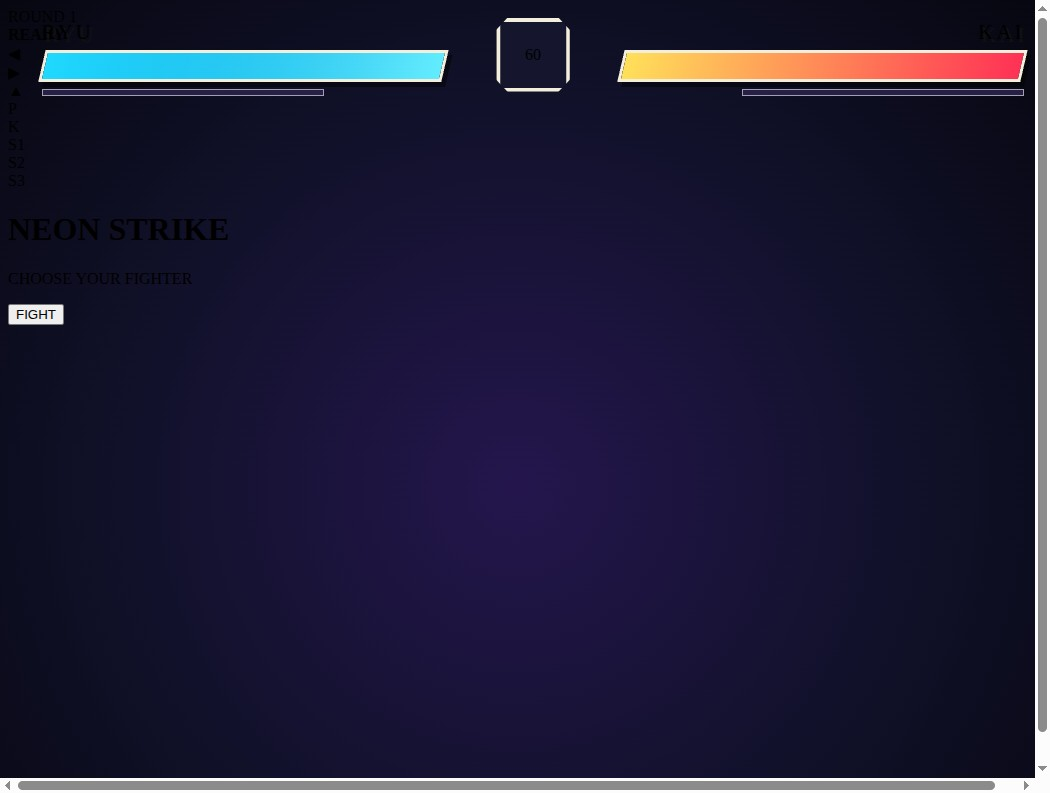
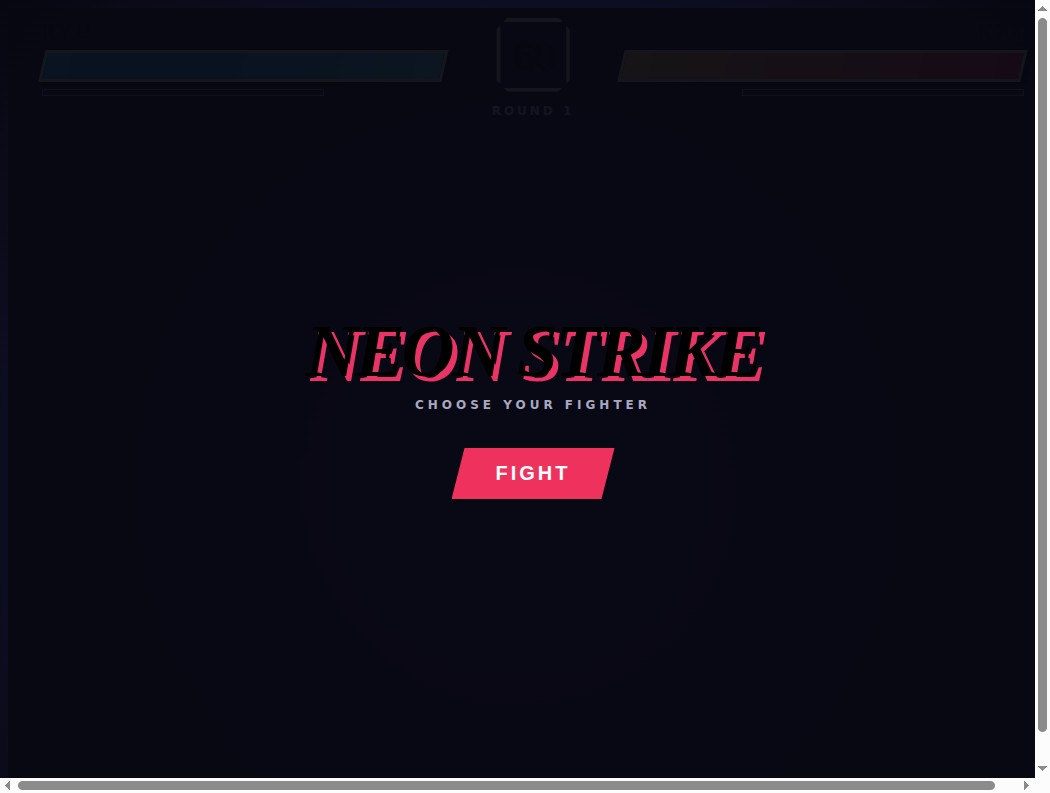
Publish static build for issue #1
Run: 45463022119
Attempt: 1
Generation: 3
Source: a9905210f63381c647c8e18ef487ce44729b8af1

diff --git a/index.html b/index.html
@@ -46,7 +46,7 @@ const chars=[
  {name:'KAI',style:'SPEED',speed:4.1,power:.86,body:'#a96f58',hair:'#ec3f78',gi:'#222943',accent:'#44ccff',moves:['VOLT DASH','AERIAL CUT','NEON BURST']},
  {name:'VOLT',style:'POWER',speed:2.7,power:1.18,body:'#d1a188',hair:'#e7dfcf',gi:'#4d3972',accent:'#ffc942',moves:['IRON BREAK','EARTH SHOCK','SOLAR RUSH']}
 ];let chosen=0,started=false,mode='select';
-const keys={};addEventListener('keydown',e=>{keys[e.key.toLower]=true;if(e.key.toLowerCase()==='r'&&mode==='over')reset()});addEventListener('keyup',e=>keys[e.key.toLower]=false);
+const keys={};addEventListener('keydown',e=>{keys[e.key.toLowerCase()]=true;if(e.key.toLowerCase()==='r'&&mode==='over')reset()});addEventListener('keyup',e=>keys[e.key.toLowerCase()]=false);
 function touchBind(){document.querySelectorAll('[data-key]').forEach(b=>{let k=b.dataset.key;b.addEventListener('pointerdown',e=>{e.prevent();keys[k]=true});b.addEventListener('pointerup',()=>keys[k]=false);b.addEventListener('pointercancel',()=>keys[k]=false);b.addEventListener('pointerleave',()=>keys[k]=false)})}touchBind();
 function portrait(c,preview){return function(){}}
 const cards=document.getElementById('cards');chars.forEach((c,i)=>{const d=document.createElement('div');d.className='card'+(i===0?' selected':'');d.innerHTML=`<canvas></canvas><em>${c.style}</em><h2>${c.name}</h2><small>${c.moves.join(' · ')}</small><div class="stats">SPD ${Math.round(c.speed*20)} &nbsp; POW ${Math.round(c.power*100)}</div>`;d.onclick=()=>{chosen=i;document.querySelectorAll('.card').forEach((x,j)=>x.classList.toggle('selected',j===i));drawPreviews()};cards.appendChild(d)});
@@ -54,13 +54,13 @@ function drawPreview(canvas,c){let w=canvas.width=300,h=canvas.height=300,pc=can
 function drawPreviews(){document.querySelectorAll('.card').forEach((d,i)=>drawPreview(d.querySelector('canvas'),chars[i]))}setTimeout(drawPreviews,20);
 function ground(){return H*.76}
 class Fighter{constructor(x,c,p){this.x=x;this.y=ground();this.vx=0;this.vy=0;this.c=c;this.p=p;this.hp=100;this.power=25;this.dir=p===1?1:-1;this.face=this.dir;this.state='idle';this.anim=0;this.cool=0;this.attack=null;this.inv=0;this.jump=false}update(enemy,t){this.anim+=.06;this.cool=Math.max(0,this.cool-1);this.inv=Math.max(0,this.inv-1);if(this.state==='hurt'&&this.anim>12)this.state='idle';if(this.state==='attack'&&this.attack){let a=this.attack;if(this.anim>a.time){this.state='idle';this.attack=null}}const left=this.p===1?(keys.a||keys.ArrowLeft):(keys.ArrowLeft);const right=this.p===1?(keys.d||keys.ArrowRight):(keys.ArrowRight);const jump=this.p===1?(keys.w||keys.ArrowUp):(keys.ArrowUp);const punch=this.p===1?keys.j:false;const kick=this.p===1?keys.k:false;const s1=this.p===1?keys.l:false,s2=this.p===1?keys.u:false,s3=this.p===1?keys.i:false;
-if(this.state!=='attack'&&this.state!=='hurt'){if(left){this.vx=-this.c.speed;this.face=-1;if(this.state==='idle')this.state='walk'}else if(right){this.vx=this.c.speed;this.face=1;if(this.state==='idle')this.state='walk'}else{this.vx*=.72;if(this.state==='walk')this.state='idle'}if(jump&&this.y>=ground()-1&&!this.jump){this.vy=-11.5;this.jump=true}if(punch&&this.cool===0)this.attackMove('punch',11,0,9);else if(kick&&this.cool===0)this.attackMove('kick',15,0,13);else if(s1&&this.cool===0&&this.power>=20)this.special('s1',14,55);else if(s2&&this.cool===0&&this.power>=35)this.special('s2',20,75);else if(s3&&this.cool===0&&this.power>=55)this.special('s3',28,120)}}
+if(this.state!=='attack'&&this.state!=='hurt'){if(this.p===2){let d=enemy.x-this.x,dist=Math.abs(d);this.vx*=.72;if(dist>82){this.vx=Math.sign(d)*this.c.speed*.72;this.face=Math.sign(d);this.state='walk'}else if(dist<46){this.vx=-Math.sign(d)*this.c.speed*.55;this.face=-Math.sign(d);this.state='walk'}else{this.vx*=.72;if(this.state==='walk')this.state='idle'}if(dist<70&&this.cool===0&&t%Math.max(18,38-this.c.power*12)<3){if(this.power>=55&&Math.random()<.35)this.special('s3',28,120);else if(this.power>=35&&Math.random()<.45)this.special('s2',20,75);else if(Math.random()<.45)this.attackMove('kick',15,0,13);else this.attackMove('punch',11,0,9)}if(this.y>=ground()-1&&Math.random()<.002){this.vy=-11.5;this.jump=true}}else{if(left){this.vx=-this.c.speed;this.face=-1;if(this.state==='idle')this.state='walk'}else if(right){this.vx=this.c.speed;this.face=1;if(this.state==='idle')this.state='walk'}else{this.vx*=.72;if(this.state==='walk')this.state='idle'}if(jump&&this.y>=ground()-1&&!this.jump){this.vy=-11.5;this.jump=true}if(punch&&this.cool===0)this.attackMove('punch',11,0,9);else if(kick&&this.cool===0)this.attackMove('kick',15,0,13);else if(s1&&this.cool===0&&this.power>=20)this.special('s1',14,55);else if(s2&&this.cool===0&&this.power>=35)this.special('s2',20,75);else if(s3&&this.cool===0&&this.power>=55)this.special('s3',28,120)}}}
 this.vy+=.55;this.y+=this.vy;if(this.y>ground()){this.y=ground();this.vy=0;this.jump=false}this.x+=this.vx;if(this.x<70)this.x=70;if(this.x>W-70)this.x=W-70;if(Math.abs(this.x-enemy.x)<40)this.x+=(this.x<enemy.x?-1:1)*(40-Math.abs(this.x-enemy.x));this.dir=(enemy.x>=this.x)?1:-1;if(this.state!=='attack'&&this.state!=='hurt'&&this.vx===0)this.state='idle';if(this.attack){let ar=this.attack;let dist=enemy.x-this.x;if(this.anim<ar.time&&Math.abs(dist)<(ar.range||58)&&((dist*this.face)>-15)){if(!ar.hit){ar.hit=true;enemy.damage(ar.damage,this.face)}}}}
 attackMove(kind,damage,knock,range){this.state='attack';this.anim=0;this.cool=18;this.attack={kind,time:kind==='punch'?18:24,damage:damage*this.c.power,range,hit:false}};
 special(kind,damage,range){this.state='attack';this.anim=0;this.cool=45;this.power-=kind==='s1'?20:kind==='s2'?35:55;this.attack={kind,time:kind==='s3'?38:30,damage:damage*this.c.power,range,hit:false};bursts.push({x:this.x+this.face*50,y:this.y-95,life:20,accent:this.c.accent,kind})}
 damage(d,dir){if(this.inv)return;this.hp=Math.max(0,this.hp-d);this.power=Math.min(100,this.power+7);this.state='hurt';this.anim=0;this.vx=dir*7;this.inv=8;hitFlash=18;bursts.push({x:this.x,y:this.y-100,life:12,accent:'#fff',kind:'hit'})}}
 let f1,f2,bursts=[],hitFlash=0,timer=60,tick=0,raf;
-function reset(){started=true;mode='fight';document.getElementById('select').classList.add('hidden');f1=new Fighter(W*.27,chars[chosen],1);let ai=chars[(chosen+1)%3];f2=new Fighter(W*.73,ai,2);f1.dir=f2.dir=1;f2.c=ai;timer=60;tick=0;bursts=[];showBanner('READY');setTimeout(()=>showBanner('FIGHT'),800)}
+function reset(){started=true;mode='fight';document.getElementById('select').classList.add('hidden');f1=new Fighter(W*.27,chars[chosen],1);let ai=chars[(chosen+1)%3];f2=new Fighter(W*.73,ai,2);f1.dir=f2.dir=1;f2.c=ai;document.getElementById('p1name').textContent=f1.c.name;document.getElementById('p2name').textContent=f2.c.name;timer=60;document.getElementById('timer').textContent=timer;tick=0;bursts=[];showBanner('READY');setTimeout(()=>showBanner('FIGHT'),800)}
 document.getElementById('start').onclick=reset;
 function showBanner(text){let b=document.getElementById('banner');b.innerHTML='<b>'+text+'</b>';b.classList.remove('show');void b.offsetWidth;b.classList.add('show')}
 function drawBg(){let g=ctx.createLinearGradient(0,0,0,H);g.addColorStop(0,'#17113a');g.addColorStop(.62,'#30205a');g.addColorStop(.63,'#15152d');g.addColorStop(1,'#080812');ctx.fillStyle=g;ctx.fillRect(0,0,W,H);ctx.fillStyle='#20194b';for(let i=0;i<11;i++){let x=i*W/10-W*.08;ctx.fillRect(x,H*.23,W*.055,H*.40)}ctx.fillStyle='#0e0d23';ctx.fillRect(0,H*.66,W,H*.34);ctx.strokeStyle='rgba(119,98,180,.22)';ctx.lineWidth=2;for(let y=H*.68;y<H;y+=22){ctx.beginPath();ctx.moveTo(0,y);ctx.lineTo(W,y);ctx.stroke()}for(let x=0;x<W;x+=90){ctx.beginPath();ctx.moveTo(W/2,H*.68);ctx.lineTo(x,H);ctx.stroke()}ctx.fillStyle='#ef3d70';ctx.fillRect(W*.43,H*.29,W*.14,7);ctx.fillStyle='#a9a2ca';ctx.font='900 14px system-ui';ctx.textAlign='center';ctx.fillText('METRO  -  11',W*.5,H*.25);ctx.fillStyle='#09091a';ctx.fillRect(W*.47,H*.66,W*.06,5)}
